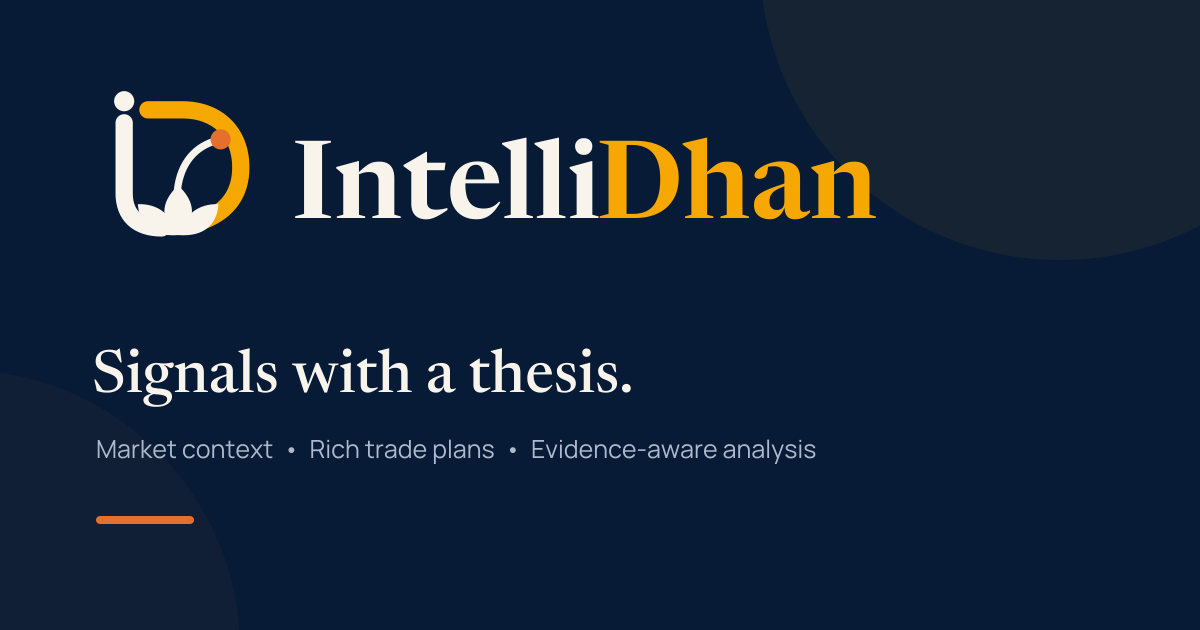
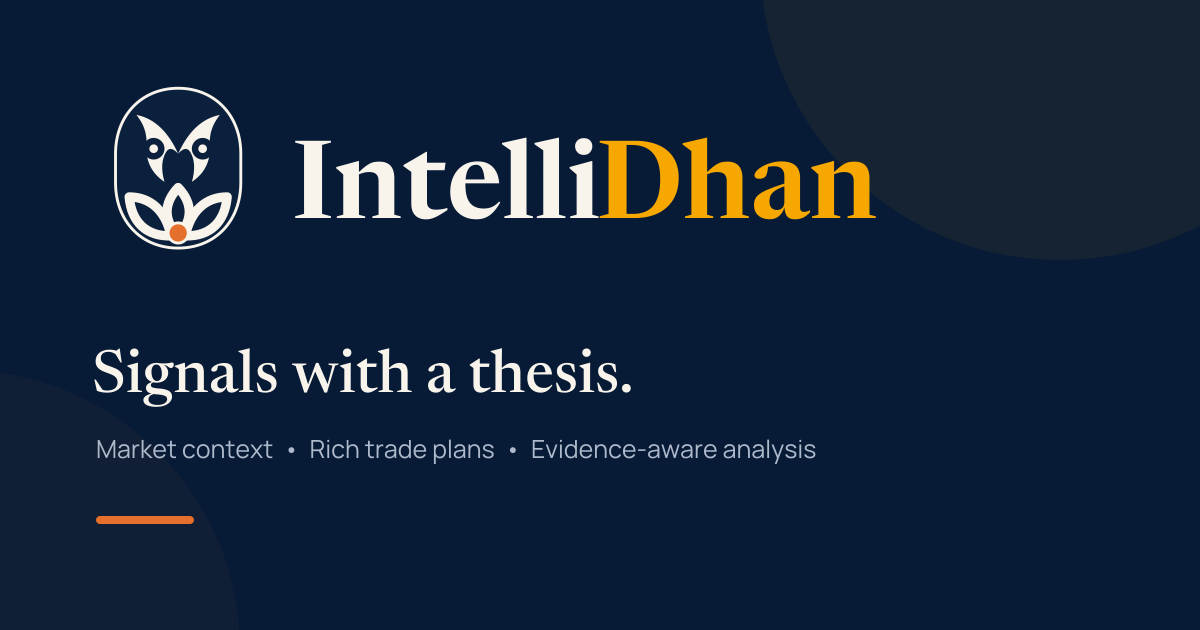
Adopt D4.2 owl lotus identity

Changed region(s): [[0.0925, 0.1206, 0.2158, 0.3921]]

diff --git a/tests/test_brand_system.py b/tests/test_brand_system.py
@@ -78,7 +78,7 @@ def test_brand_theme_keeps_semantic_market_colors_distinct():
     ).read_text(encoding="utf-8")
 
 
-def test_mark_geometry_is_shared_and_has_a_closed_lotus_base():
+def test_d42_owl_lotus_geometry_is_shared_across_brand_assets():
     assets = (
         "intellidhan-mark.svg",
         "intellidhan-mark-inverse.svg",
@@ -87,16 +87,20 @@ def test_mark_geometry_is_shared_and_has_a_closed_lotus_base():
         "social-card.svg",
     )
     required_geometry = (
-        'd="M86 47h48c49 0 81 32 81 80 0 36-18 60-50 73"',
-        'd="M112 208h32l-8 13h-16Z"',
-        'd="M128 220c-24-17-27-43 0-68 27 25 24 51 0 68Z"',
-        'd="M125 221c-32 2-51-14-53-43 28-1 49 15 53 43Z"',
-        'd="M131 221c32 2 51-14 53-43-28-1-49 15-53 43Z"',
+        'd="M128 17C77 17 41 55 41 108v40c0 54 36 91 87 91s87-37 87-91v-40c0-53-36-91-87-91Z"',
+        'd="M128 108C115 79 96 59 70 54c12 15 15 29 14 44-1 21 8 38 25 49-5-17-4-31 2-41 4-7 10-6 17 2Z"',
+        'd="M128 108c13-29 32-49 58-54-12 15-15 29-14 44 1 21-8 38-25 49 5-17 4-31-2-41-4-7-10-6-17 2Z"',
+        'd="M128 155c-18 19-23 43 0 67 23-24 18-48 0-67Z"',
+        'd="M118 222c-35 1-55-20-58-54 29 0 51 19 58 54Z"',
+        'd="M138 222c35 1 55-20 58-54-29 0-51 19-58 54Z"',
     )
     for name in assets:
         source = (BRAND / name).read_text(encoding="utf-8")
         assert all(path in source for path in required_geometry)
-        assert "0 49-32 82-79 82" not in source
+        assert 'd="M86 47h48c49 0 81 32 81 80' not in source
+        assert 'cx="94" cy="101"' in source
+        assert 'cx="162" cy="101"' in source
+        assert 'cx="128" cy="218"' in source
 
 
 def test_external_brand_artwork_uses_outlined_text_and_exact_share_dimensions():

diff --git a/docs/29-brand-system.md b/docs/29-brand-system.md
@@ -2,37 +2,39 @@
 
 **Status:** Implemented foundation
 
-**Direction:** 4A — soft-flared editorial wordmark, orange signal dot
+**Direction:** D4.2 — calm owl-and-lotus mark, soft-flared editorial wordmark,
+orange bindu
 
-**Last updated:** 2026-07-19
+**Last updated:** 2026-07-21
 
 ## 1. Identity
 
-The IntelliDhan identity combines an `ID` monogram, a three-petal lotus, and a
-rising signal curve. The lotus quietly references Indian visual culture without
-turning the product into a religious motif. The curve connects analysis to
-action, while the burnt-orange bindu is the single focal point.
+The IntelliDhan identity combines a watchful owl and a three-petal lotus inside
+a calm midnight oval. The owl represents attentive research and measured
+judgment; the lotus quietly references Indian visual culture and clarity without
+turning the product into a religious motif. A burnt-orange bindu anchors the
+mark as its single focal point.
 
 The wordmark uses a soft flared editorial serif. It gives the product warmth and
 authority without resembling a legacy bank. `Intelli` is midnight navy (or
 parchment on dark surfaces); `Dhan` is marigold.
 
-The approved reference is `web/assets/brand/intellidhan-brand-board.png`.
-Production UI must use the SVG assets rather than extracting pixels from that
-board.
+The production SVGs are the approved reference. The earlier
+`web/assets/brand/intellidhan-brand-board.png` remains an archived exploration
+board only; production UI must not extract pixels or geometry from it.
 
 ## 2. Production asset stack
 
 | Asset | Purpose |
 |---|---|
-| `intellidhan-mark.svg` | Primary monogram on light/neutral surfaces |
-| `intellidhan-mark-inverse.svg` | Monogram on midnight/navy surfaces |
+| `intellidhan-mark.svg` | Primary owl-and-lotus mark on light/neutral surfaces |
+| `intellidhan-mark-inverse.svg` | Keyed owl-and-lotus mark on midnight/navy surfaces |
 | `intellidhan-lockup.svg` | Horizontal presentation and external collateral |
 | `favicon.svg` | Browser/app icon on a midnight rounded tile |
 | `social-card.svg` | Editable 1200×630 social/share card with outlined text |
 | `social-card.png` | Deterministic 1200×630 Open Graph/Twitter delivery asset |
 | `intellidhan-theme.css` | Platform palette, typography, and component layer |
-| `intellidhan-brand-board.png` | Approved visual reference only |
+| `intellidhan-brand-board.png` | Archived first-generation exploration board only |
 
 SVG is the source of truth. Raster exports should be generated from these files
 at delivery size so edges remain sharp. Do not trace the reference PNG back into
@@ -75,9 +77,11 @@ files in a later deployment-hardening pass if privacy policy or CSP requires it.
 ## 5. Logo usage
 
 - Clearspace around the mark: at least the diameter of the orange bindu.
-- Minimum monogram size: 24px in digital UI; use 32px or larger when possible.
+- Minimum mark size: 24px in digital UI; use 32px or larger when possible.
 - Minimum lockup width: 180px.
-- Never stretch, rotate, outline, bevel, shadow, or recolor individual petals.
+- Never stretch, rotate, bevel, shadow, or recolor the owl or individual petals.
+- Keep both eyes balanced and preserve the oval enclosure; do not detach the owl
+  from the lotus or use either motif as a standalone product mark.
 - Never turn the bindu green/teal or add a glow around it.
 - On dark backgrounds use the inverse mark; on light backgrounds use the navy
   mark. Marigold and orange remain unchanged in both.
@@ -99,6 +103,13 @@ The agent-readable implementation contract is maintained in
 `design-system/intellidhan/pages/terminal.md`.
 
 ## 7. Verification record
+
+The 2026-07-21 D4.2 pass supersedes the first-generation `ID` monogram. It
+verified shared owl, lotus, enclosure, eye, and bindu geometry across the mark,
+inverse mark, favicon, lockup, and social card; small-size legibility at 16, 24,
+34, and 256px; deterministic social export; gateway delivery; and the focused
+and full regression suites. Strategy, data, authentication, multi-brain, and
+broker execution behavior did not change.
 
 The 2026-07-19 implementation pass verified:
 

diff --git a/README.md b/README.md
@@ -1,13 +1,13 @@
 # IntelliDhan — Trading Signal Platform Specification
 
-**Version:** 0.2 alpha · **Date:** 2026-07-19 · **Status:** Working personal-terminal foundation
+**Version:** 0.2 alpha · **Date:** 2026-07-21 · **Status:** Working personal-terminal foundation
 
-**Last system pass:** 4A IntelliDhan brand foundation with a soft-flared
-editorial identity, orange signal bindu, portable outlined SVG artwork,
+**Last system pass:** D4.2 IntelliDhan owl-and-lotus identity with a soft-flared
+editorial wordmark, orange bindu, portable outlined SVG artwork,
 deterministic share imagery, AA light-mode brand/semantic/faint tokens across
 flat and tinted cards, and a restrained midnight-navy/orange terminal theme;
-browser-validated in dark/light modes at 375–1440px and covered by the full
-non-integration regression suite
+the production mark stays readable from favicon to presentation scale and is
+covered by focused brand checks plus the full non-integration regression suite
 
 IntelliDhan is a working personal stock-picking and signal terminal. Today it
 provides a configured-universe market monitor, research-stage 0DTE/Swing signal
@@ -21,7 +21,7 @@ must not be presented as implemented.
 - Card-first Today terminal with SPX/SPY/QQQ context, a deterministic top-three
   focus list, curated radar, rich signal plans, Discover, Analyze, 0DTE, and
   Swing tasks.
-- Production brand assets, favicon, deterministic 1200×630 share artwork,
+- Production D4.2 owl-and-lotus assets, favicon, deterministic 1200×630 share artwork,
   agent-readable design tokens, and a responsive dark/light visual theme.
   External brand lettering is outlined for portable rendering; orange marks
   brand, focus, and primary actions while labeled green/red remain reserved for
@@ -124,7 +124,7 @@ requires the same-commit README update.
 | 26 | [UI Decluttering Pass](docs/26-ui-declutter-pass.md) | Reduced Today hierarchy, removed duplicate panels, and progressive-disclosure contract |
 | 27 | [Codex + Robinhood Execution](docs/27-codex-robinhood-execution.md) | Codex-only claim contract, official MCP setup, decommission migration, and fail-closed execution loop |
 | 28 | [Platform Safety &amp; Data Integrity](docs/28-platform-safety-and-data-integrity.md) | Active token, research-isolation, persistence, no-lookahead, GitOps, and deployment controls |
-| 29 | [Brand System](docs/29-brand-system.md) | Approved 4A identity, SVG asset stack, palette, typography, usage rules, and product application |
+| 29 | [Brand System](docs/29-brand-system.md) | Approved D4.2 owl-and-lotus identity, SVG asset stack, palette, typography, usage rules, and product application |
 
 ## Core Product Tenets
 

diff --git a/design-system/intellidhan/MASTER.md b/design-system/intellidhan/MASTER.md
@@ -7,9 +7,10 @@ semantic-market colors.
 ## Brand direction
 
 - Personality: modern heritage fintech; confident, calm, warm, and analytical.
-- Identity: 4A soft-flared editorial wordmark with the ID/lotus/signal monogram.
-- Symbolism: the lotus is implicit resilience and clarity; the rising signal
-  curve ends in a burnt-orange bindu. Never recolor that dot green or teal.
+- Identity: D4.2 owl-and-lotus mark with the 4A soft-flared editorial wordmark.
+- Symbolism: the owl is attentive research and measured judgment; the lotus is
+  implicit resilience and clarity; a burnt-orange bindu anchors the mark. Never
+  recolor that dot green or teal.
 - Visual restraint: navy is structural, parchment carries readable content,
   marigold identifies the name, and orange marks a primary action or selection.
 
@@ -82,18 +83,20 @@ zone, invalidation, and risk without opening a chart.
 
 Production assets live in `web/assets/brand/`:
 
-- `intellidhan-mark.svg` — light-surface monogram;
-- `intellidhan-mark-inverse.svg` — dark-surface monogram;
+- `intellidhan-mark.svg` — light-surface owl-and-lotus mark;
+- `intellidhan-mark-inverse.svg` — dark-surface keyed owl-and-lotus mark;
 - `intellidhan-lockup.svg` — horizontal brand lockup;
 - `favicon.svg` — app/browser tile;
 - `social-card.svg` — editable 1200×630 share-card source with outlined text;
 - `social-card.png` — deterministic 1200×630 delivery export for previews;
 - `intellidhan-theme.css` — web implementation tokens and overrides;
-- `intellidhan-brand-board.png` — approved visual reference, not a source asset.
+- `intellidhan-brand-board.png` — archived first-generation exploration board,
+  not a production source asset.
 
 ## Forbidden patterns
 
 - green or teal signal/bindu dot;
+- detached owl, lotus, or bindu used as a replacement product mark;
 - orange used as bullish and red as bearish without labels;
 - gradients that span more than two close navy tones;
 - decorative emojis as core icons;

diff --git a/AGENT_CONTEXT.md b/AGENT_CONTEXT.md
@@ -461,3 +461,27 @@ For each coherent work unit:
   follow-up darkens `text-faint` and tests it over tint-a through tint-e.
   Remaining: commit/push, wait for CI, and obtain final independent re-review.
   No merge or deployment is authorized by this pass.
+
+## 2026-07-21 — D4.2 owl-and-lotus identity pass
+
+- Branch: `codex/owl-lotus-logo` in isolated worktree
+  `/Users/dhanvin/Documents/IntelliDhan-logo-d42`, based on `origin/main` at
+  `dcb49fd`.
+- The primary worktree's unrelated in-progress changes remain untouched.
+- User-selected identity: D4.2 from the second owl/lotus concept board—a calm,
+  slightly wider midnight oval containing a balanced parchment owl and
+  three-petal lotus, anchored by the existing burnt-orange bindu.
+- The 4A outlined editorial wordmark and the navy, parchment, marigold, and
+  orange palette remain unchanged. The legacy `ID`/signal monogram is retired
+  from production assets; its old concept board is archived reference only.
+- Updated production mark, inverse mark, favicon, horizontal lockup, social SVG,
+  deterministic social PNG, brand documentation, README, and regression tests.
+- Strategy, data, authentication, multi-brain analysis, and Robinhood execution
+  behavior remain out of scope and unchanged.
+- Verification: focused brand/terminal checks passed (`43`); the full
+  non-integration suite passed (`293 passed, 6 deselected`); SVG XML parsing,
+  deterministic 1200×630 social export, dark/light browser rendering, and
+  diff checks passed. The mark was visually inspected at 16, 24, 34, 256,
+  lockup, and social sizes.
+- PR status is recorded at handoff. No merge or deployment is authorized by
+  this pass.
